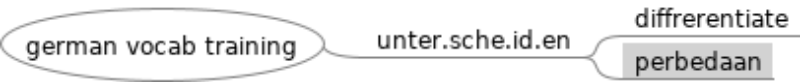
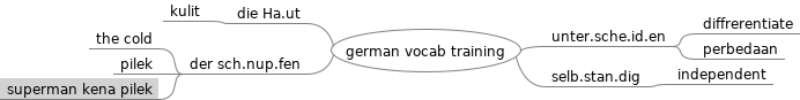
update lecture notes

diff --git a/go concurrency.mm b/go concurrency.mm
@@ -15,5 +15,22 @@
 <node CREATED="1645807743686" ID="ID_1460812422" MODIFIED="1645807747438" POSITION="right" TEXT="GOMAXPROCS">
 <node CREATED="1645807747917" ID="ID_612036846" MODIFIED="1645807759670" TEXT="maksimal processor yg bisa dipakai sama go"/>
 </node>
+<node CREATED="1645808794306" ID="ID_683939875" MODIFIED="1645808798482" POSITION="left" TEXT="pararellism">
+<node CREATED="1645808798776" ID="ID_393924628" MODIFIED="1645808807659" TEXT="2 atau lebih run simultaniously"/>
+</node>
+<node CREATED="1645808808995" ID="ID_881557565" MODIFIED="1645808813174" POSITION="right" TEXT="concurrency">
+<node CREATED="1645808813394" ID="ID_1056106123" MODIFIED="1645808832181" TEXT="programming technique, that your program might run simultanously"/>
+</node>
+<node CREATED="1645809225168" ID="ID_1504077159" MODIFIED="1645809232018" POSITION="left" TEXT="sync.WaitGroup">
+<node CREATED="1645809232350" ID="ID_176560817" MODIFIED="1645809233803" TEXT="add"/>
+<node CREATED="1645809234056" ID="ID_620629928" MODIFIED="1645809235266" TEXT="done"/>
+<node CREATED="1645809235516" ID="ID_1137451984" MODIFIED="1645809238815" TEXT="wait()"/>
+</node>
+<node CREATED="1645832647462" ID="ID_1084031735" MODIFIED="1645832649391" POSITION="right" TEXT="channel">
+<node CREATED="1645832649599" ID="ID_385185428" MODIFIED="1645832654927" TEXT="communication mechanism"/>
+</node>
+<node CREATED="1645846534180" ID="ID_729379570" MODIFIED="1645846536785" POSITION="left" TEXT="pipline">
+<node CREATED="1645846537032" ID="ID_152678202" MODIFIED="1645846551203" TEXT="output from goroutine, input for another goroutine"/>
+</node>
 </node>
 </map>

diff --git a/german vocab training.mm b/german vocab training.mm
@@ -5,5 +5,16 @@
 <node CREATED="1645776812792" ID="ID_1869791915" MODIFIED="1645776817791" TEXT="diffrerentiate"/>
 <node CREATED="1645776818924" ID="ID_1592668855" MODIFIED="1645776821584" TEXT="perbedaan"/>
 </node>
+<node CREATED="1645876730984" ID="ID_1780613486" MODIFIED="1645876736021" POSITION="left" TEXT="die Ha.ut">
+<node CREATED="1645876736364" ID="ID_1264013700" MODIFIED="1645876737957" TEXT="kulit"/>
+</node>
+<node CREATED="1645876755213" ID="ID_1302470738" MODIFIED="1645876761757" POSITION="right" TEXT="selb.stan.dig">
+<node CREATED="1645876761978" ID="ID_1959129591" MODIFIED="1645876765719" TEXT="independent"/>
+</node>
+<node CREATED="1645876786211" ID="ID_1828618314" MODIFIED="1645876794004" POSITION="left" TEXT="der sch.nup.fen">
+<node CREATED="1645876794332" ID="ID_1134399467" MODIFIED="1645876796711" TEXT="the cold"/>
+<node CREATED="1645876796935" ID="ID_178536170" MODIFIED="1645876801311" TEXT="pilek"/>
+<node CREATED="1645876843357" ID="ID_510512633" MODIFIED="1645876848066" TEXT="superman kena pilek"/>
+</node>
 </node>
 </map>
